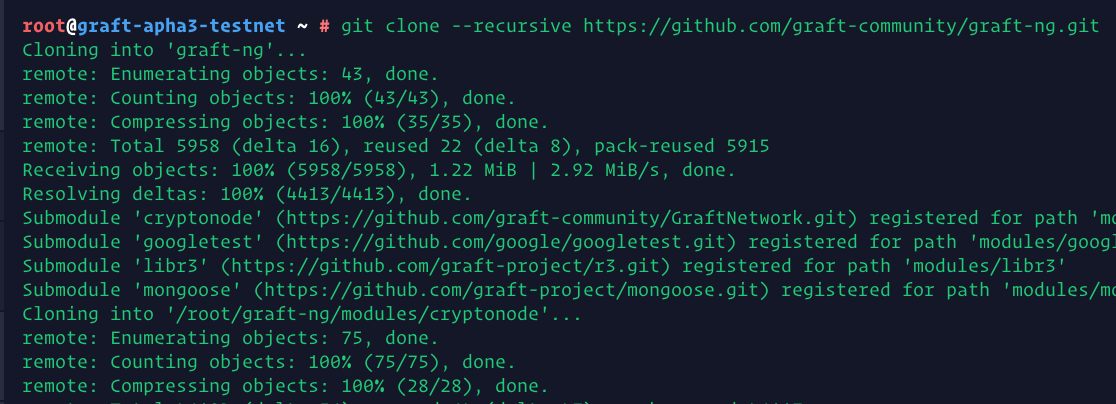
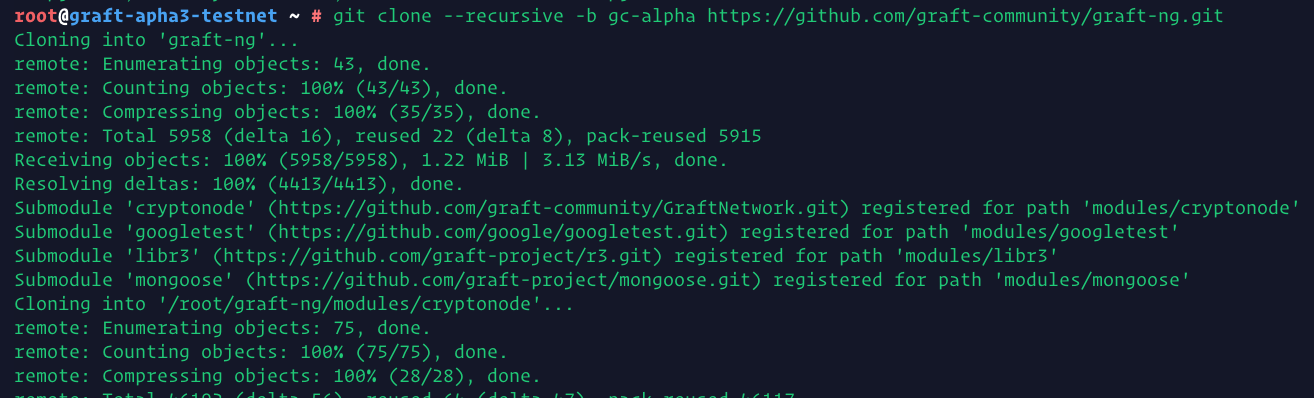
fixed typos updated "git clone --recursive -b gc-alpha https://github.com/graft-community/graft-ng.git" removed "git checkout alpha3" and "git submodule update --init --recursive" added "git pull --recurse-submodules" Deprecated all ~/BUILD/bin references Updated all corresponding images

Changed region(s): [[0.0, 0.0, 1.0, 1.0], [0.7007, 0.995, 0.7312, 1.0]]

diff --git a/Simple-step-by-step-setup-instructions-for-non-Linux-users.md b/Simple-step-by-step-setup-instructions-for-non-Linux-users.md
@@ -8,7 +8,7 @@ This is the formal version of the `Alpha3 Supernode Guide for Dummies` by yidake
 
 * This is a bare minimum install recommended for linux newbies and troubleshooting purposes.
 
-* This setup is **not recommended for mainnet**, as it is very a insecure server setup.
+* This setup is **not recommended for mainnet**, as it is a very insecure server setup.
 
 * This guide is not intended for linux educational purposes, rather a simple copy/paste procedure to get your Supernode up an running and see it working properly and learn Supernode management, and later be able to follow more advanced setup guides.
 
@@ -22,14 +22,14 @@ This is the formal version of the `Alpha3 Supernode Guide for Dummies` by yidake
 ## Brief list of VPS poviders
 
 
-| URL           | Specs         | Bandwidth | Storage | Price/month  |
-| ------------- |:-------------:| :-------------:| :-----:| :-----:|
-| https://vultr.com | 2vCPU 4GB | 3 TB | 60GB | $20 |
-| https://try.digitalocean.com | 2vCPU 4GB| 4 TB | 80GB     |   $100 Free Trial |
-| https://www.hetzner.com/ | 2vCPU 4GB | 20TB  | 40TB    |    4,90€|
-| https://contabo.com/ | 4 CPU 8GB | Unlimited | 200 GB      |    4,99€ |
-| https://www.linode.com/ |2vCPU 4GB | 4TB | 80GB      |    $20 |
-| https://www.ovh.com/ | 2vCPU 7GB | ?  | 50GB    |    $26.40 |
+| URL                          | Specs     | Bandwidth | Storage| Price/month     |
+| -------------                |:---------:| :--------:| :-----:| :--------------:|
+| https://vultr.com            | 2vCPU 4GB | 3 TB      | 60GB   |    $20          |
+| https://try.digitalocean.com | 2vCPU 4GB | 4 TB      | 80GB   | $100 Free Trial |
+| https://www.hetzner.com/     | 2vCPU 4GB | 20TB      | 40TB   |    4,90€        |
+| https://contabo.com/         | 4 CPU 8GB | Unlimited | 200 GB |    4,99€        |
+| https://www.linode.com/      | 2vCPU 4GB | 4TB       | 80GB   |    $20          |
+| https://www.ovh.com/         | 2vCPU 7GB | ?         | 50GB   |    $26.40       |
 
 
 * Start by selecting a VPS provider, spin up a node selecting Ubuntu 18.04. The Community Dev Tree accepts other distributions, but for this guide we will focus on Ubuntu 18.04.
@@ -59,30 +59,14 @@ This is the formal version of the `Alpha3 Supernode Guide for Dummies` by yidake
 
 * Clone Community Tree Graft Supernode testnet code from GitHub repository
 
-      git clone --recursive https://github.com/graft-community/graft-ng.git
+      git clone --recursive -b gc-alpha https://github.com/graft-community/graft-ng.git
 
 ![5](simple-setup-images/5.png)
 
-* Enter the graft-ng directory
 
-
-    cd graft-ng
+      git pull --recurse-submodules
 
 ![6](simple-setup-images/6.png)
-
-* Switch over to the alpha3 branch
-
-
-    git checkout alpha3
-
-![7](simple-setup-images/7.png)
-
-* Update submodules
-
-
-    git submodule update --init --recursive
-
-![8](simple-setup-images/8.png)
 
 * Install dependencies
 
@@ -103,7 +87,7 @@ This is the formal version of the `Alpha3 Supernode Guide for Dummies` by yidake
 * Run “cmake” in this directory, using the source code
 
 
-    cmake -DENABLE_SYSLOG=ON $HOME/graft-ng
+      cmake -DENABLE_SYSLOG=ON $HOME/graft-ng
 
 ![11](simple-setup-images/11.png)
 
@@ -121,15 +105,13 @@ You now have;
 * `graft-wallet-cli` - wallet management, has interactive commands
 * `graft_server` - RTA/supernode functions, non-interactive
 
->`Graftnoded` and `graft-wallet-cli` both live inside the directory; `$Home/supernode/BUILD/bin/`
-
->`graft_server` lives in;
+>`Graftnoded` and `graft-wallet-cli` and `graft_server` live in;
 `$HOME/supernode/
 
 * You should already be inside of the supernode directory, but in any case, lets cd directly into it:
 
 
-    cd $HOME/supernode/BUILD/bin
+    cd $HOME/supernode
 
 ![13](simple-setup-images/13.png)
 
@@ -163,7 +145,7 @@ The easiest way is to run `graft_server` for a few seconds, and then stopping th
 * Let’s open the stake-wallet to find the address to send funds to. By opening the wallet, you will be able to retrieve the mnemonic seed phrase for safe keeping. The actual stake-wallet is created in a hidden folder, here is how to access it;
 
 
-    cd $HOME/supernode/BUILD/bin
+    cd $HOME/supernode
     ./graft-wallet-cli --wallet-file ~/.graft/supernode/data/stake-wallet/stake-wallet --password "" --testnet --trusted-daemon
 
 ![16](simple-setup-images/16.png)
